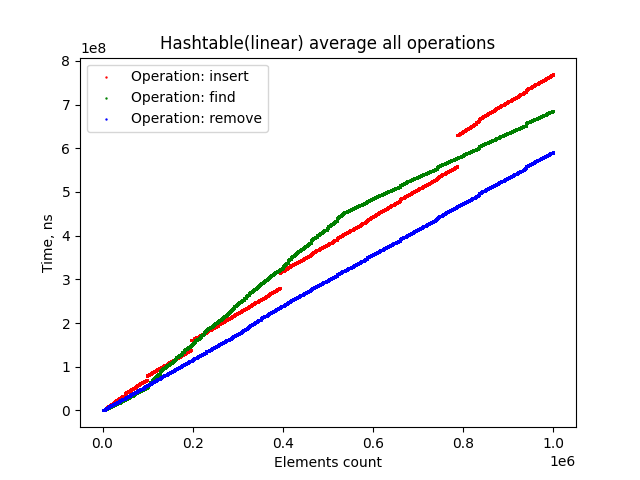
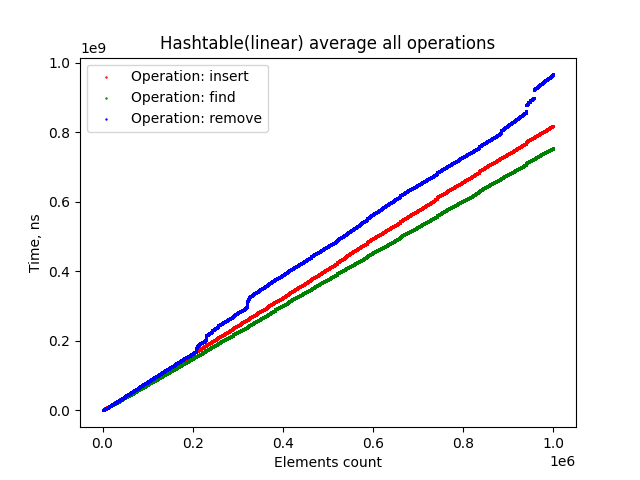
hashtable update max size, graphics

diff --git a/Smirnov_Dmitry_cw/src/module/Hashtable.py b/Smirnov_Dmitry_cw/src/module/Hashtable.py
@@ -3,8 +3,7 @@ from typing import NoReturn, Any, Callable
 
 class Hashtable:
     def __init__(self, probe="linear"):
-        self.__MAX_SIZE = 16384
-        self.__fill_factor = 0.66
+        self.__MAX_SIZE = 2 ** 22
         self.__item_count = 0
         self.__probe = probe
         self.__array = [None for _ in range(self.__MAX_SIZE)]
@@ -34,7 +33,7 @@ class Hashtable:
             if self.__array[i] is None or self.__array[i] == "del":
                 self.__array[i] = (key, value)
                 self.__item_count += 1
-                if self.__item_count >= self.__fill_factor * self.__MAX_SIZE:
+                if self.__item_count >= 1 * self.__MAX_SIZE:
                     self.__resize()
                 break
             else:
@@ -53,7 +52,8 @@ class Hashtable:
         i = hash_value
         while True:
             if not self.__array[i]:
-                raise KeyError("Key not found in hashtable (operation find)")
+                return
+                #raise KeyError("Key not found in hashtable (operation find)")
             if self.__array[i][0] == key:
                 self.__array[i] = "del"
                 self.__item_count -= 1
@@ -72,12 +72,14 @@ class Hashtable:
         i = hash_value
         while True:
             if not self.__array[i]:
-                raise KeyError("Key not found in hashtable (operation find)")
-            if  self.__array[i] != "del" and self.__array[i][0] == key:
+                return
+                #raise KeyError("Key not found in hashtable (operation find)")
+            if self.__array[i] != "del" and self.__array[i][0] == key:
                 return self.__array[i][1]
             idx += 1
             if idx >= self.__MAX_SIZE:
-                raise KeyError("Key not found in hashtable (operation find)")
+                return
+                #raise KeyError("Key not found in hashtable (operation find)")
             offset = self.__choose_probing(idx, hash_value)
             i = (hash_value + offset) % self.__MAX_SIZE
 

diff --git a/Smirnov_Dmitry_cw/src/graphs/HashtableGraphics.py b/Smirnov_Dmitry_cw/src/graphs/HashtableGraphics.py
@@ -5,7 +5,7 @@ import matplotlib.pyplot as plt
 
 from Smirnov_Dmitry_cw.src.module.Hashtable import Hashtable
 
-PROBENAME = "double"
+PROBENAME = "quadratic"
 
 
 class HashtableGraphics:
@@ -16,7 +16,7 @@ class HashtableGraphics:
         times_remove = list()
 
         MAX = 1_000_000
-        dataset = list(range(1, MAX))
+        dataset = list(random.randint(1, MAX) for _ in range(1, MAX))
 
         table = Hashtable(PROBENAME)
         gc.disable()
@@ -33,7 +33,7 @@ class HashtableGraphics:
         gc.enable()
         gc.disable()
         start = time.time_ns()
-        for i in range(1000000-1, 0, -1):
+        for i in dataset:
             table.remove(i)
             times_remove.append(time.time_ns() - start)
         gc.enable()
@@ -93,24 +93,25 @@ class HashtableGraphics:
         times_remove = list()
         MAX = 1_000_000
         table = Hashtable(PROBENAME)
-
+        dataset = list(range(1, MAX))
+        random.shuffle(dataset)
         gc.disable()
         start = time.time_ns()
-        for i in range(1, MAX):
+        for i in dataset:
             table[i] = i
             times_insert.append(time.time_ns() - start)
         gc.enable()
 
         gc.disable()
         start = time.time_ns()
-        for i in range(1, MAX):
+        for i in dataset:
             a = table[i]
             times_get.append(time.time_ns() - start)
         gc.enable()
 
         gc.disable()
         start = time.time_ns()
-        for i in range(1, MAX):
+        for i in dataset:
             table.remove(i)
             times_remove.append(time.time_ns() - start)
         gc.enable()
@@ -127,6 +128,6 @@ class HashtableGraphics:
         plt.show()
 
 
-HashtableGraphics.best_case()
+#HashtableGraphics.best_case()
 #HashtableGraphics.worst_case()
-#HashtableGraphics.average_case()
+HashtableGraphics.average_case()
